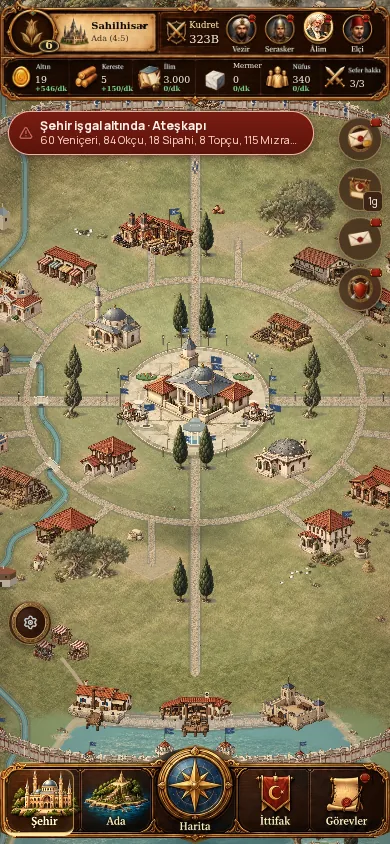
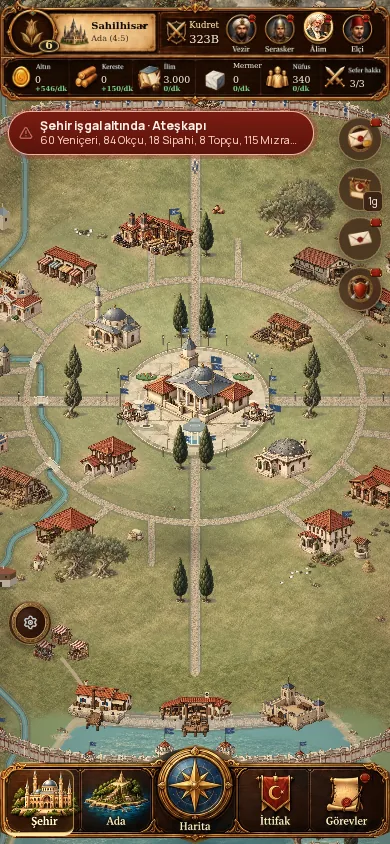
fix(city): attach ground wear to built structures (0.101.1)

diff --git a/payitaht/lib/game/city-map/terrain/roads.ts b/payitaht/lib/game/city-map/terrain/roads.ts
@@ -4,7 +4,6 @@ import { QUAY_PROMENADE_WIDTH, roadStyleFor, roadTierForHallLevel } from '../roa
 import { edgeKey, roadEdgeKeysForTargets } from '../road-tree'
 import { cityFields, cityFountains, nearStreamAt } from '../city-extras'
 import { bakeGraphics } from '../bake'
-import { FOOTPRINT_DIAMOND_W } from '../building-assets'
 import * as Phaser from 'phaser'
 import { liteMode } from '@/lib/motion'
 import { mulberry32, type RoadCurve, roadCurves, displayRoadCurves, nearSlot, paintedGroundTexture } from '../terrain-builder'
@@ -98,35 +97,8 @@ export function buildRoads({ V, divanLevel, occupiedSlotIds, scene, shoreY, stam
     }
     visibleCurves.push(...through)
 
-    // Kurulu yapılar çayıra basılmış sprite gibi durmasın: zemindeki
-    // kullanım izi ve küçük avlu binayla birlikte taşınır/yıkılır. Yalnız
-    // kara arsaları; boş parseller, meydan ve deniz ayrı yüzeylerini korur.
-    const yardMaterial = paintedGroundTexture(scene, 't_dirt')
-    for (const id of active) {
-      if (id === HALL_SLOT_ID) continue
-      const slot = slotById(id)
-      if (!slot || slot.type !== 'city') continue
-      const { x, y } = slot.screen
-      if (yardMaterial) {
-        const wear = scene.add.image(x, y, yardMaterial).setDepth(-801.2)
-          .setDisplaySize(FOOTPRINT_DIAMOND_W * 2.15, FOOTPRINT_DIAMOND_W * 1.075)
-          .setAlpha(0.66)
-        roadTextures.push(wear)
-      }
-      const hw = FOOTPRINT_DIAMOND_W * 0.78, hh = hw / 2
-      const apron = [V(x - hw, y), V(x, y - hh), V(x + hw, y), V(x, y + hh)]
-      roads.fillStyle(tier >= 3 ? 0xb7a789 : 0xa78e62, 0.40)
-      roads.fillPoints(apron, true)
-      // Ön kenarın taş eşiği avluyu giriş yoluna bağlar; arka kenar
-      // çimenle yumuşak birleşir. Çatı/sprite ölçüsünü değiştirmez.
-      if (tier >= 2) {
-        roads.lineStyle(3, 0xd6c7a5, 0.64)
-        roads.strokePoints([V(x - hw, y), V(x, y + hh), V(x + hw, y)], false)
-      }
-    }
-
-    // Kıyı promenadı bir slot göstergesi değildir; ilk liman/tersane
-    // kurulunca dünyaya doğal biçimde eklenir.
+    // Kıyı promenadı bir slot göstergesi değildir; liman bölgesi
+    // açılınca dünyaya doğal biçimde eklenir.
     if (hasHarbour) {
       const quayStyle = roadStyleFor('quay', level)
       // Liman yapıları ince bir çizgiye değil, yük boşaltılabilecek ortak

diff --git a/payitaht/lib/game/changelog.ts b/payitaht/lib/game/changelog.ts
@@ -5,6 +5,7 @@
 export type Release = { version: string; date: string; title: string; notes: string[] }
 
 export const CHANGELOG: Release[] = [
+  { version: '0.101.1', date: '11 Ekim 2026', title: 'Avlu izleri kurulu binaya bağlı', notes: ['Açık fakat boş parsellerde yeni kullanım izi görünmez; avlu zemini doğrudan kurulu binayla taşınır ve yıkımda temizlenir.', 'Yol ağı, arsa açılması, yerleşim, HUD ve oyun kuralları korunur.'] },
   { version: '0.101.0', date: '11 Ekim 2026', title: 'Şehrin zemin temeli', notes: ['Şehir çayırı sıcak toprak ve kuru ot dokularıyla çeşitlendi; ana cadde ve mahalle sokakları daha belirgin.', 'Kurulu kara binalarının altında avlu ve kullanım izleri; limanda ortak geniş taş promenat.', 'Dere kıyıları tortu, nemli toprak ve koyla uyumlu su renkleriyle birleşir.', 'Arsa koordinatları, bina boyutları, halk/kervan hareketleri, oyun kuralları, kayıt ve HUD korunur.'] },
   { version: '0.100.0', date: '11 Ekim 2026', title: 'Şehir çizim döngüsünün yaşam süresi', notes: ['Şehir yüklenirken açılan sayfalarda arka plan çizimi hazır olduğunda uyur; güncel sayfa ve hafif mod durumu uygulanır.', 'Uyuyan şehirden başka şehre geçince eski Phaser oyununun silme karesi çalıştırılır; eski çizim kaynakları temizlenir.', 'Yok edilen sahnenin hafif mod dinleyicisi ve doku üretim kamerası temizlenir; eski şehirlerin bellekte tutulması giderilir.', 'Binalar, ada koordinatları, HUD, ekonomi, oyun saati ve kayıt kuralları korunur.'] },
   { version: '0.99.1', date: '11 Ekim 2026', title: 'Ada araçlarının erişilebilir etiketleri', notes: ['Şehre dönüş ve rapor ikonlarının adları ekran okuyucuya ayrıldı; görünmez metnin küçük yazı uyarısı giderildi.', 'Okunmamış rapor sayısı erişilebilir adda korunur. Ada yerleşimi, HUD ve bütün oyun işlemleri aynıdır.'] },

diff --git a/payitaht/components/game/city/buildings.ts b/payitaht/components/game/city/buildings.ts
@@ -3,7 +3,8 @@ import * as Phaser from 'phaser'
 import { BUILDING_FLAGS } from '@/lib/game/banner'
 import { TILE, ROAD_GRAPH, HALL_SLOT_ID } from '@/lib/game/city-map'
 import { type LiveSlot } from '@/lib/game/city-map/live-adapter'
-import { GROUND_TARGET_W } from '@/lib/game/city-map/building-assets'
+import { FOOTPRINT_DIAMOND_W, GROUND_TARGET_W } from '@/lib/game/city-map/building-assets'
+import { paintedGroundTexture } from '@/lib/game/city-map/terrain-builder'
 import { BUILDINGS, activeJob, type BuildingId } from '@/lib/game/engine'
 import { buildingArtKey, buildingStage, isPaintedBuilding } from '@/lib/asset'
 import { liteMode } from '@/lib/motion'
@@ -149,6 +150,19 @@ export function addGardenWall(scene: CityScene, slot: LiveSlot, imgY: number, ar
 /** Bina ailesine göre farklılaşan doğal zemin/işlik/taş avlu izi. */
 export function addOccupiedClearing(scene: CityScene, id: BuildingId, slot: LiveSlot, depth: number) {
   if (slot.zone === 'liman') return
+
+  // Açık fakat boş parseller yol ağına dahildir. Kullanım izi yalnızca
+  // çizilen binanın katmanına bağlıdır; taşımada/yıkımda pieces ile temizlenir.
+  if (id !== 'divan') {
+    const material = paintedGroundTexture(scene, 't_dirt')
+    if (material) {
+      const wear = scene.add.image(slot.screen.x, slot.screen.y, material)
+        .setDepth(-801.2)
+        .setDisplaySize(FOOTPRINT_DIAMOND_W * 2.15, FOOTPRINT_DIAMOND_W * 1.075)
+        .setAlpha(0.66)
+      scene.pieces.push(wear)
+    }
+  }
 
   const profile = scene.buildingVisualProfile(id, slot)
   const rnd = scene.visualRnd(scene.buildingVisualSeed(id, slot))

diff --git a/payitaht/lib/pwa-cache.test.ts b/payitaht/lib/pwa-cache.test.ts
@@ -11,7 +11,7 @@ test('service worker Pages base path altında kaydolur', () => {
 
 test('service worker cache sürümü ve asset yenileme stratejisi güncel', () => {
   const sw = readFileSync('public/sw.js', 'utf8')
-  assert.match(sw, /payitaht-shell-v114/)
+  assert.match(sw, /payitaht-shell-v115/)
   assert.match(sw, /self\.registration\.scope/)
   assert.match(sw, /url\.pathname\.startsWith\(gameImages\)/)
   // Yalnızca JavaScript sözdizimini derle; self çağrıları çalıştırılmaz.

diff --git a/payitaht/public/sw.js b/payitaht/public/sw.js
@@ -1,4 +1,4 @@
-const CACHE = 'payitaht-shell-v114'
+const CACHE = 'payitaht-shell-v115'
 const BASE = new URL(self.registration.scope).pathname.replace(/\/$/, '')
 const p = path => `${BASE}${path.startsWith('/') ? path : `/${path}`}`
 const ASSETS = [

diff --git a/payitaht/docs/CITY-FOUNDATION-DESIGN.md b/payitaht/docs/CITY-FOUNDATION-DESIGN.md
@@ -1,4 +1,4 @@
-# Şehir tabanı — 0.101.0 / SW114
+# Şehir tabanı — 0.101.1 / SW115
 
 11 Ekim 2026. Kullanıcı yaşayan bir şehir istiyor; önce arka planın kurulmasını istedi. Önceki tam sahne konsepti arsa/bina taşmaları nedeniyle reddedildi ve üretime alınmadı. Bu sürüm mevcut oyun zemininde ilk düzenlemedir; bina modelleme ve yeni hareket sahneleri sonraki aşamadır.
 
@@ -6,7 +6,7 @@
 
 - Boyalı çim malzemesinin yapay yeşil yükseltmesi kaldırıldı. Kuru ot, gölgeli çayır ve sıcak toprak birlikte kullanılır.
 - Ana cadde, mahalle sokağı ve kıyı yolu ayrı genişlikte okunur. Kurulu kara binalarının altında yumuşak toprak izi ve avlu bulunur; bina taşınır/yıkılırken aynı güncellemeyle yeniden kurulur. Boş parsellere yeni avlu basılmaz.
-- İlk liman kurulunca üç kıyı arsası arasında ortak geniş taş promenat görünür. Dekor açıklığı aynı genişlikten hesaplanır.
+- Liman bölgesi açılınca üç kıyı arsası arasında ortak geniş taş promenat görünür. Dekor açıklığı aynı genişlikten hesaplanır.
 - Dere suyu koyla aynı renk ailesinde; kıyıda nemli yeşil, tortu ve ıslak toprak geçişleri vardır. Dere ve köprü koordinatları aynıdır.
 - Yeni PNG/WebP üretim atlası yok. Mevcut boyalı malzemeler ve pişirilen grafikler kullanılır; kare başına arazi yeniden çizilmez.
 

diff --git a/payitaht/AGENTS.md b/payitaht/AGENTS.md
@@ -1,4 +1,4 @@
-**11 Ekim şehir tabanı — 0.101.0 / SW114:** `docs/CITY-FOUNDATION-DESIGN.md`; sıcak çayır/toprak, kurulu binalara avlu, belirgin yol hiyerarşisi ve geniş ortak liman promenadı. Dere kıyıları birleşir. Arsa, bina ölçeği, HUD, motor ve kayıt korunur. Yeni hareket/modelleme sonraki aşama; yayın sonrası kullanıcı değerlendirmesinde dur.
+**11 Ekim şehir tabanı — 0.101.1 / SW115:** `docs/CITY-FOUNDATION-DESIGN.md`; sıcak çayır/toprak, kurulu binalara avlu, belirgin yol hiyerarşisi ve geniş ortak liman promenadı. Dere kıyıları birleşir. Arsa, bina ölçeği, HUD, motor ve kayıt korunur. Yeni hareket/modelleme sonraki aşama; yayın sonrası kullanıcı değerlendirmesinde dur.
 
 **11 Ekim çizim yaşam döngüsü — 0.100.0 / SW113:** `docs/RENDER-LIFECYCLE-VALIDATION.md`; yükleme sırasında açılan sayfanın güncel durumu ilk çizimden sonra uygulanır. Uyuyan şehir değişiminde eski Phaser oyunu ve global hafif mod dinleyicisi temizlenir. HUD, motor, kayıt ve ada koordinatları korunur. Tarayıcı oturum ölçümü gerçek cihazın ısınma/pil ölçümü yerine geçmez.
 

diff --git a/payitaht/docs/MASTER-UI-STANDARD.md b/payitaht/docs/MASTER-UI-STANDARD.md
@@ -1,4 +1,4 @@
-**11 Ekim şehir tabanı — 0.101.0 / SW114:** `docs/CITY-FOUNDATION-DESIGN.md`; sıcak çayır/toprak, kurulu binalara avlu, belirgin yol hiyerarşisi ve geniş ortak liman promenadı. Dere kıyıları birleşir. Arsa, bina ölçeği, HUD, motor ve kayıt korunur. Yeni hareket/modelleme sonraki aşama; yayın sonrası kullanıcı değerlendirmesinde dur.
+**11 Ekim şehir tabanı — 0.101.1 / SW115:** `docs/CITY-FOUNDATION-DESIGN.md`; sıcak çayır/toprak, kurulu binalara avlu, belirgin yol hiyerarşisi ve geniş ortak liman promenadı. Dere kıyıları birleşir. Arsa, bina ölçeği, HUD, motor ve kayıt korunur. Yeni hareket/modelleme sonraki aşama; yayın sonrası kullanıcı değerlendirmesinde dur.
 
 **11 Ekim çizim yaşam döngüsü — 0.100.0 / SW113:** `docs/RENDER-LIFECYCLE-VALIDATION.md`; yükleme sırasında açılan sayfanın güncel durumu ilk çizimden sonra uygulanır. Uyuyan şehir değişiminde eski Phaser oyunu ve global hafif mod dinleyicisi temizlenir. HUD, motor, kayıt ve ada koordinatları korunur. Tarayıcı oturum ölçümü gerçek cihazın ısınma/pil ölçümü yerine geçmez.
 
